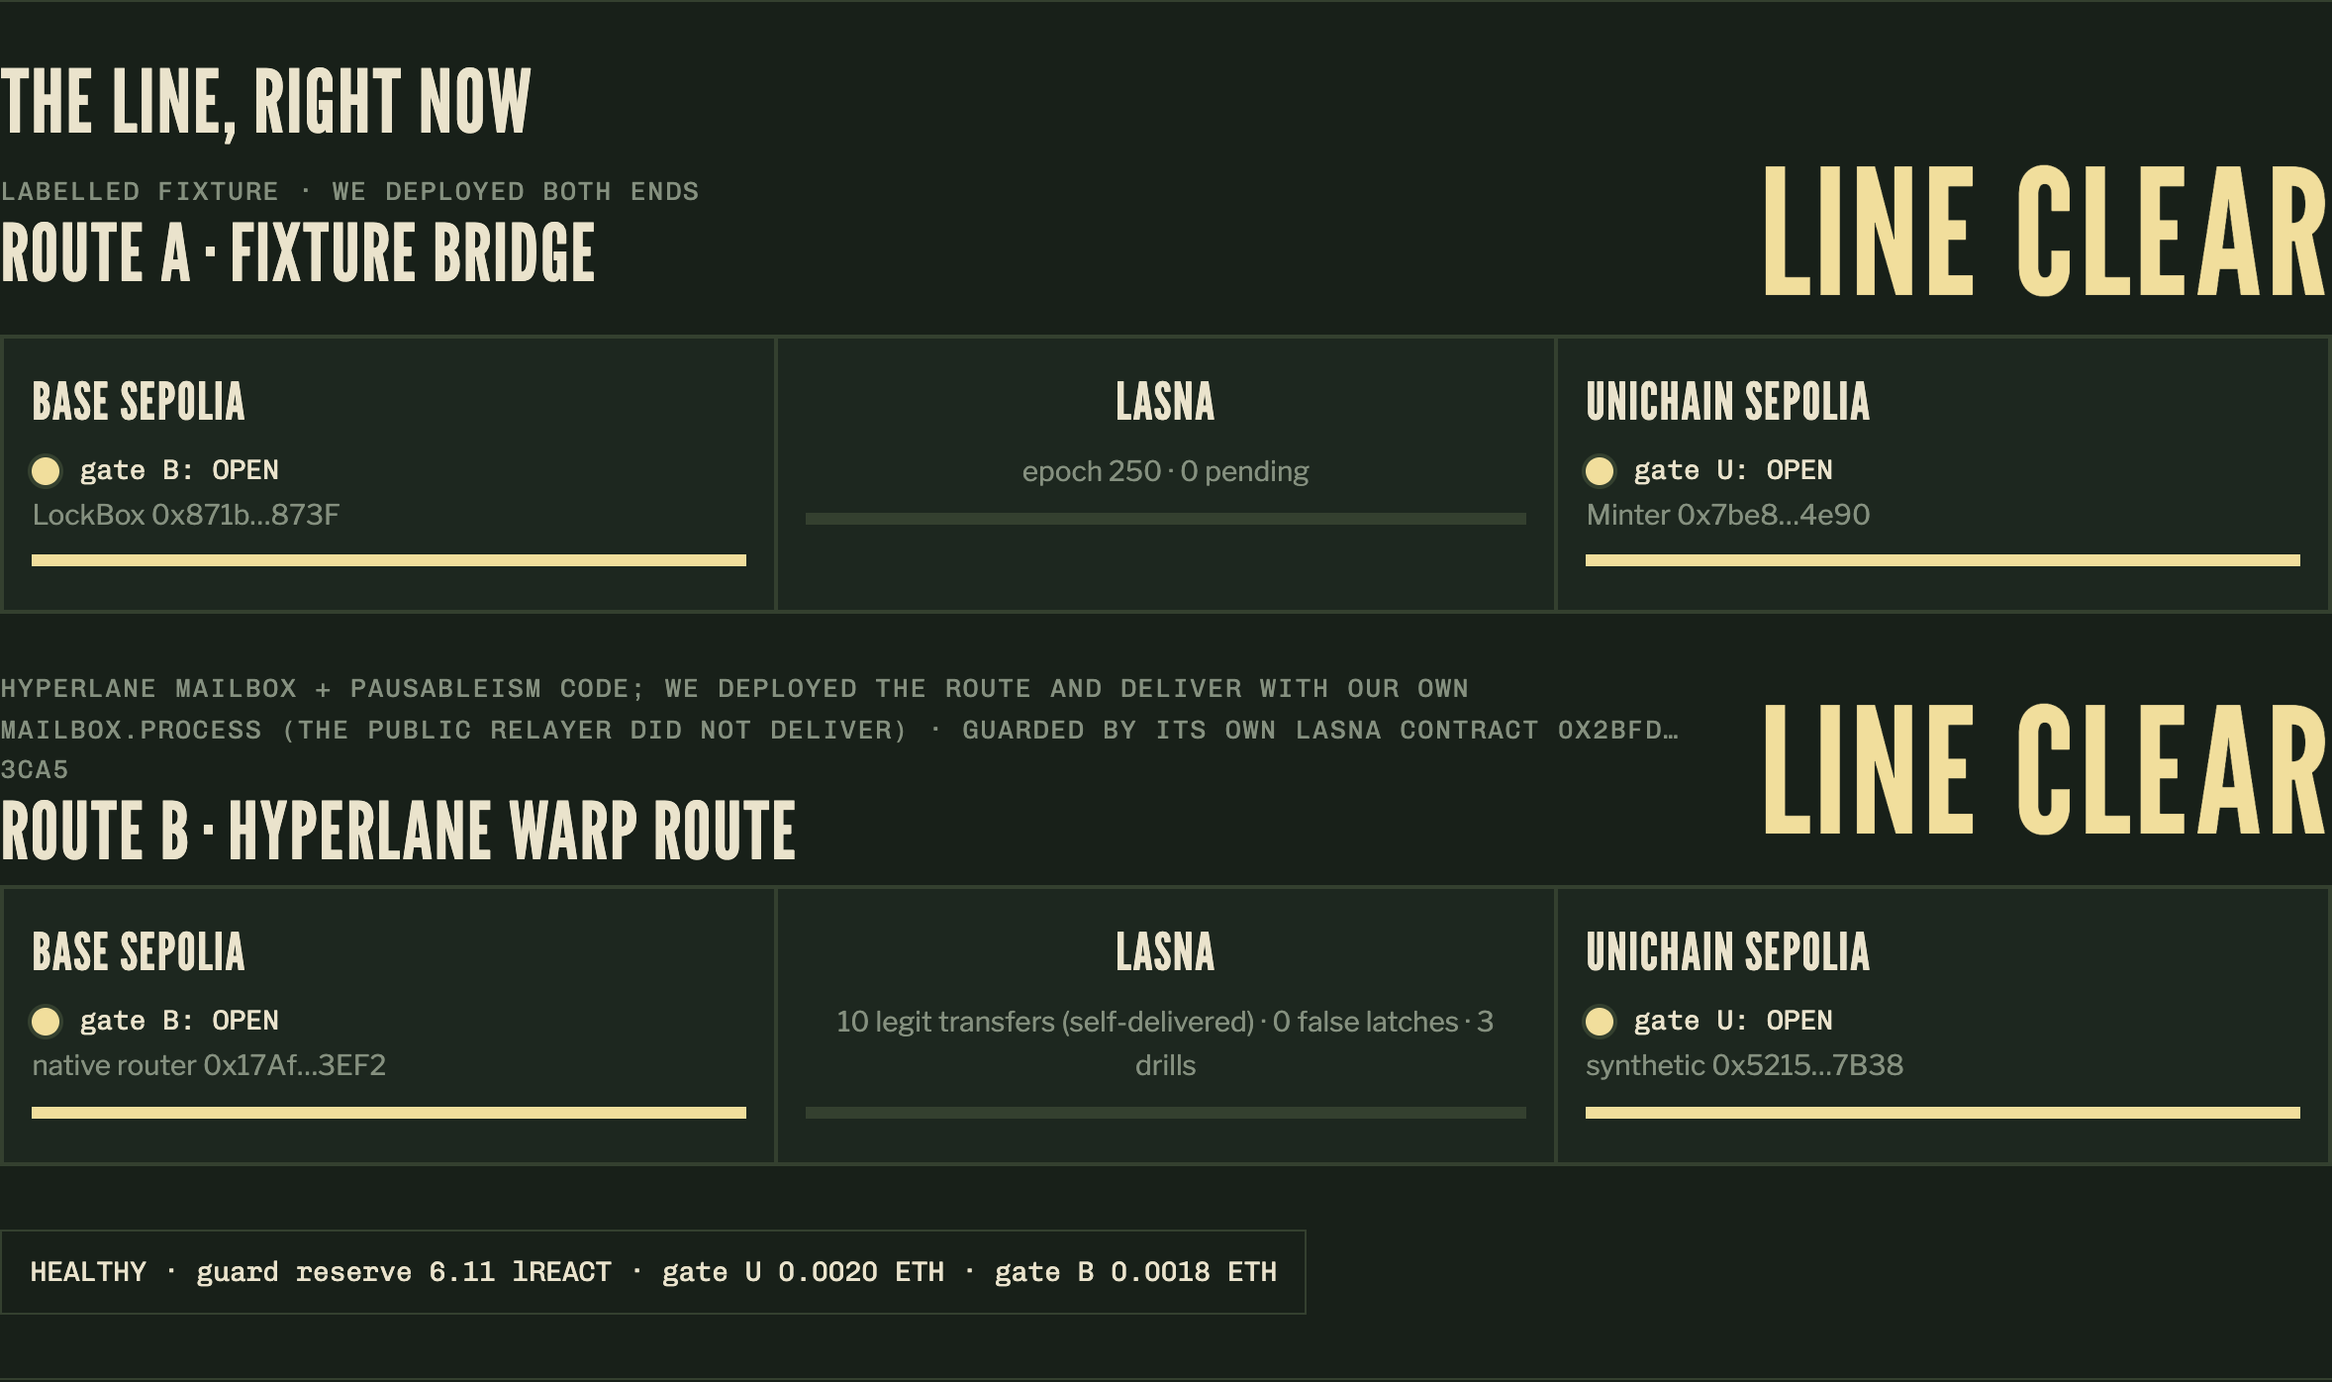
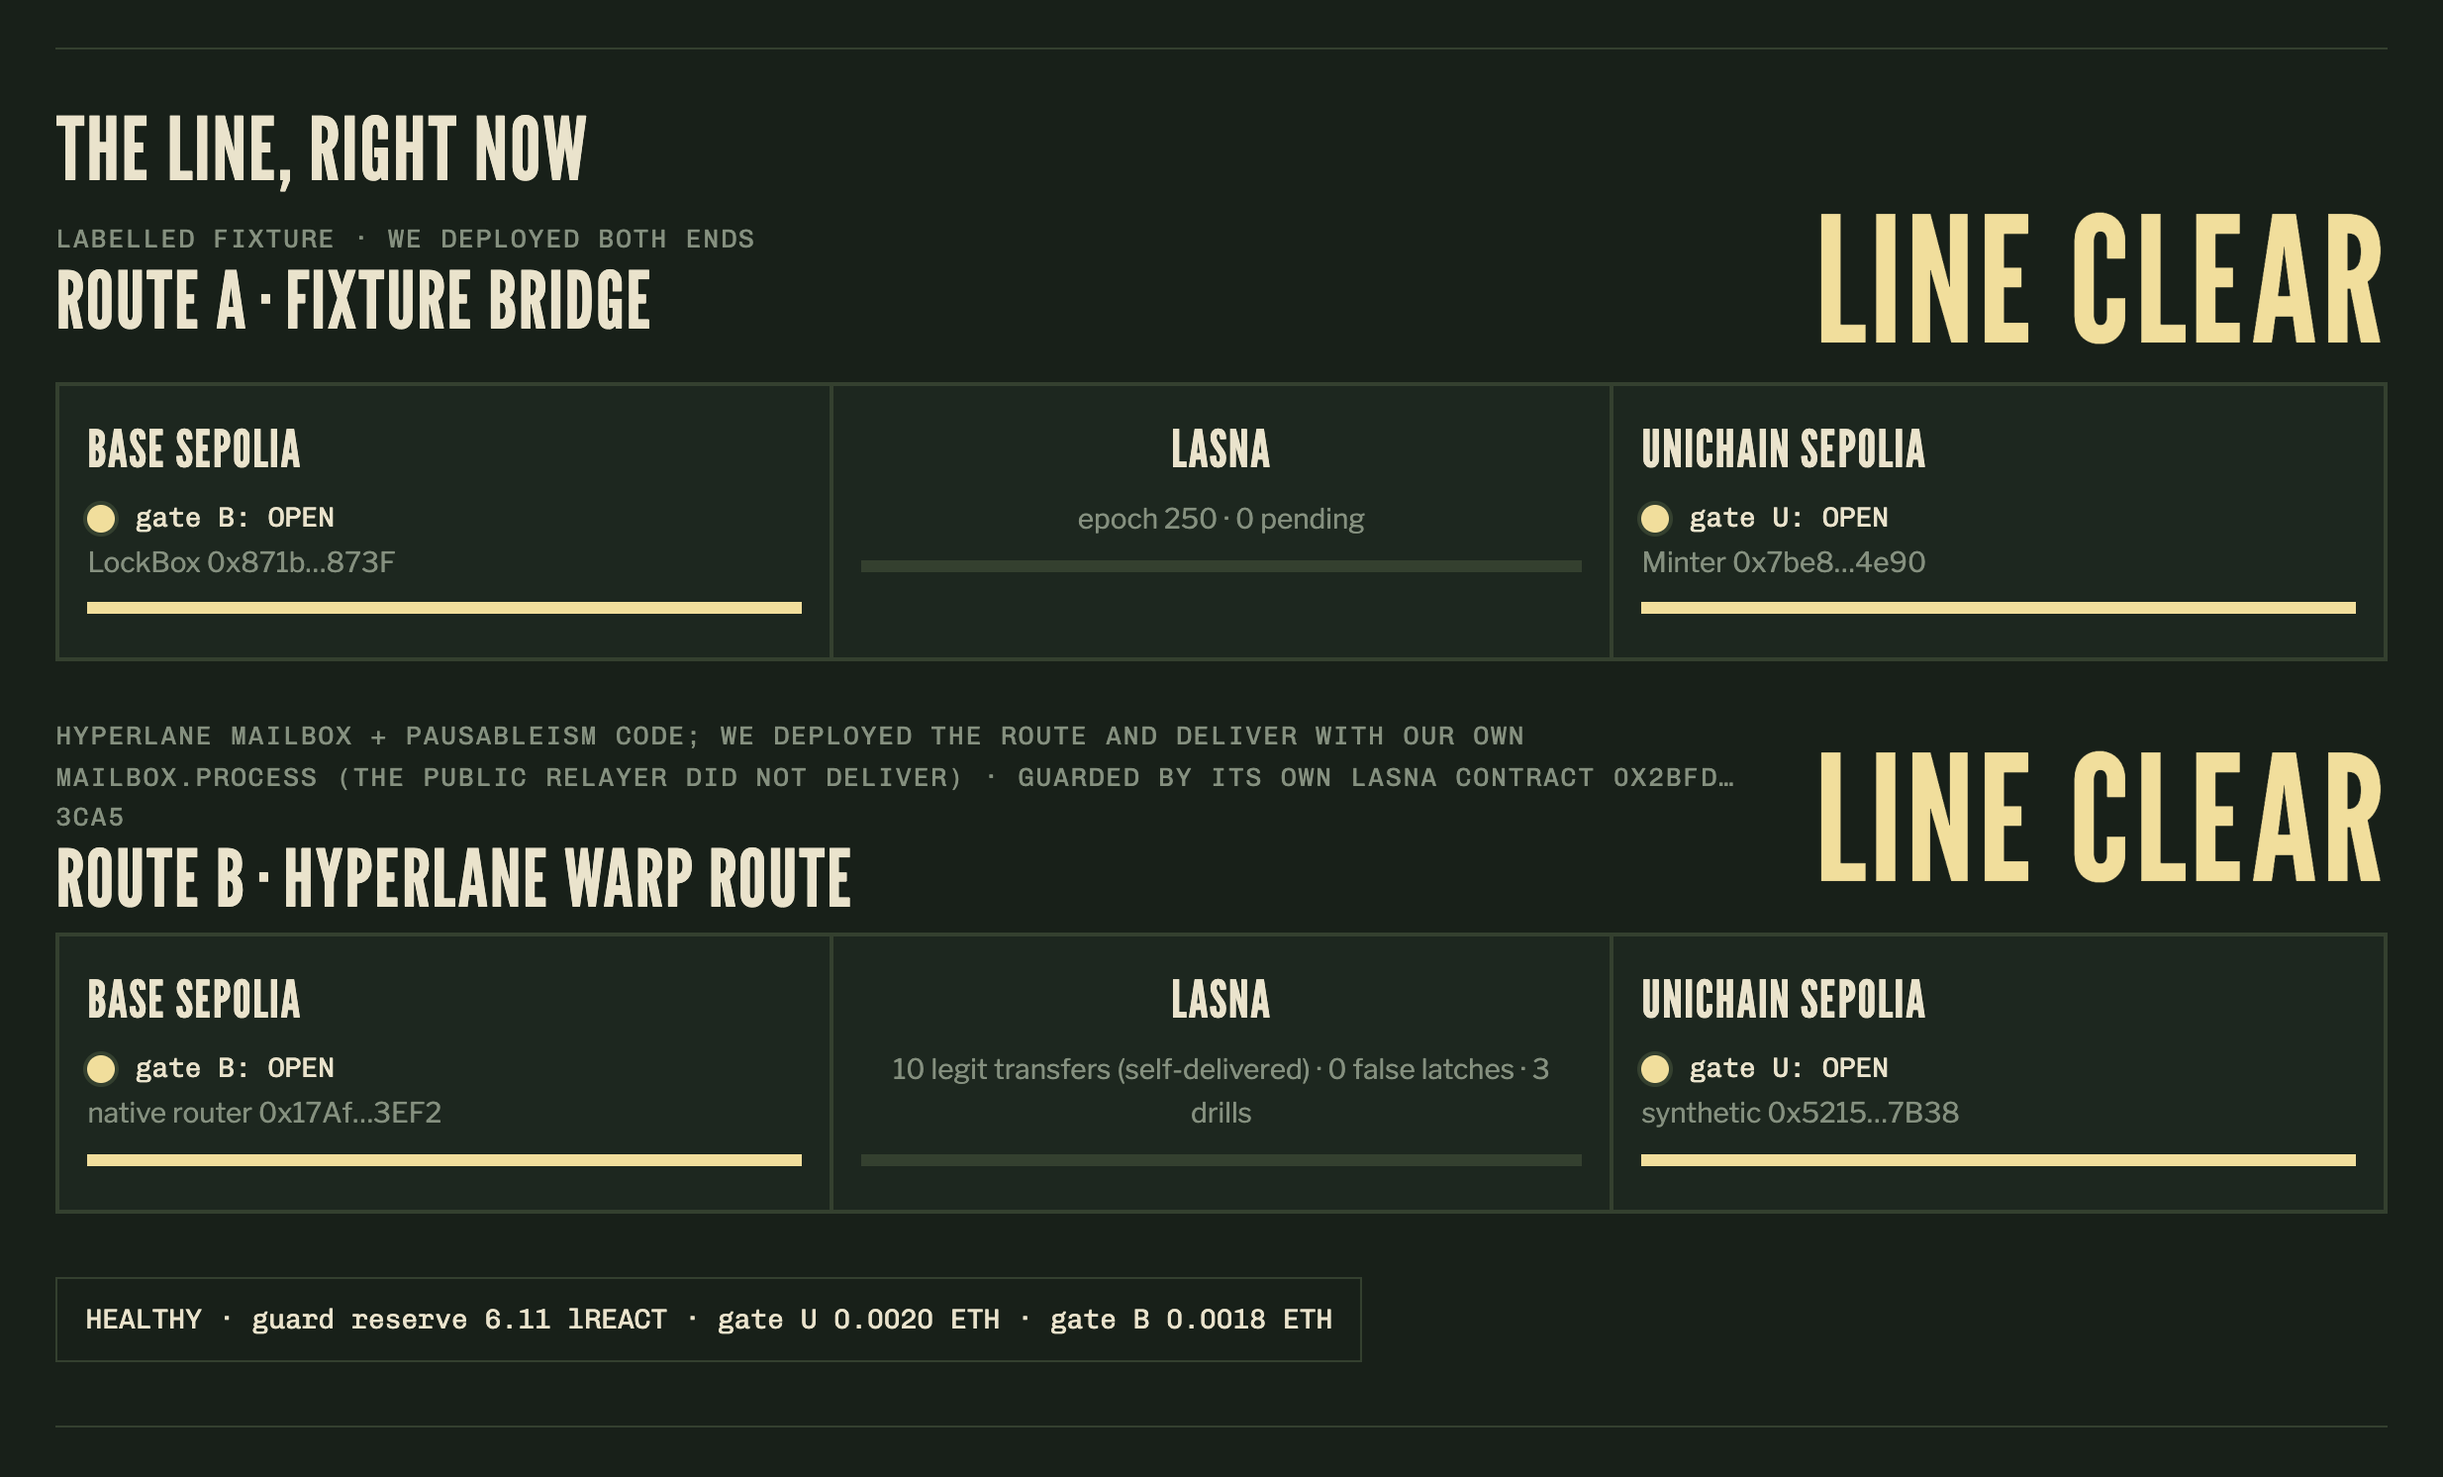
fix(site): status screenshot gets a 56/48 px margin in its own background; FAQ heading stays on one line at every width

Changed region(s): [[0.0, 0.4928, 1.0, 0.9549], [0.0, 0.0308, 1.0, 0.462], [0.3098, 0.2464, 0.3408, 0.2772]]

diff --git a/docs/index.html b/docs/index.html
@@ -161,6 +161,7 @@ header.nav{position:sticky;top:0;z-index:5;background:color-mix(in srgb,var(--bg
 section.s{padding:96px 0;border-bottom:1px solid var(--rule)}
 section[id]{scroll-margin-top:62px}
 section.s h2{font-size:clamp(44px,6vw,80px);margin:10px 0 16px;max-width:22ch}
+#h-faq{max-width:none;white-space:nowrap;font-size:clamp(30px,6vw,80px)}
 .s .intro{max-width:64ch;color:color-mix(in srgb,var(--ink) 84%,var(--bg));margin:0 0 36px}
 .pair{display:grid;grid-template-columns:minmax(0,1.1fr) minmax(0,1fr);gap:22px;align-items:start}
 .frame{border:1px solid var(--rule);border-radius:8px;overflow:hidden;background:var(--deep)}
@@ -586,7 +587,7 @@ footer a:hover{color:var(--ink)}
       <div>
         <div class="frame">
           <div class="chrome"><i></i><i></i><i></i><span>ledgerlock / status · testnet</span></div>
-          <img src="assets/status-routes.png" width="2356" height="1396" alt="Status page: route A fixture bridge and route B Hyperlane warp route, both LINE CLEAR, every gate open, guard reserve in lREACT and gate balances in ETH" loading="lazy">
+          <img src="assets/status-routes.png" width="2468" height="1492" alt="Status page: route A fixture bridge and route B Hyperlane warp route, both LINE CLEAR, every gate open, guard reserve in lREACT and gate balances in ETH" loading="lazy">
           <img src="assets/status-inc.png" width="2168" height="750" alt="Status page, last non-control attack run ap-020, in time order: mint at 0 s, Lasna react seen at +3.5 s, gate B Paused at +7.1 s, gate U Paused at +8.2 s, each with its transaction hash" loading="lazy">
         </div>
         <p class="shot-cap">The status page on live testnet RPCs, captured 13 Nov 2026 (UTC); the attack-run strip, rendered from committed rows, re-captured 14 Nov. Its last non-control attack run is ap&#8209;020.</p>
